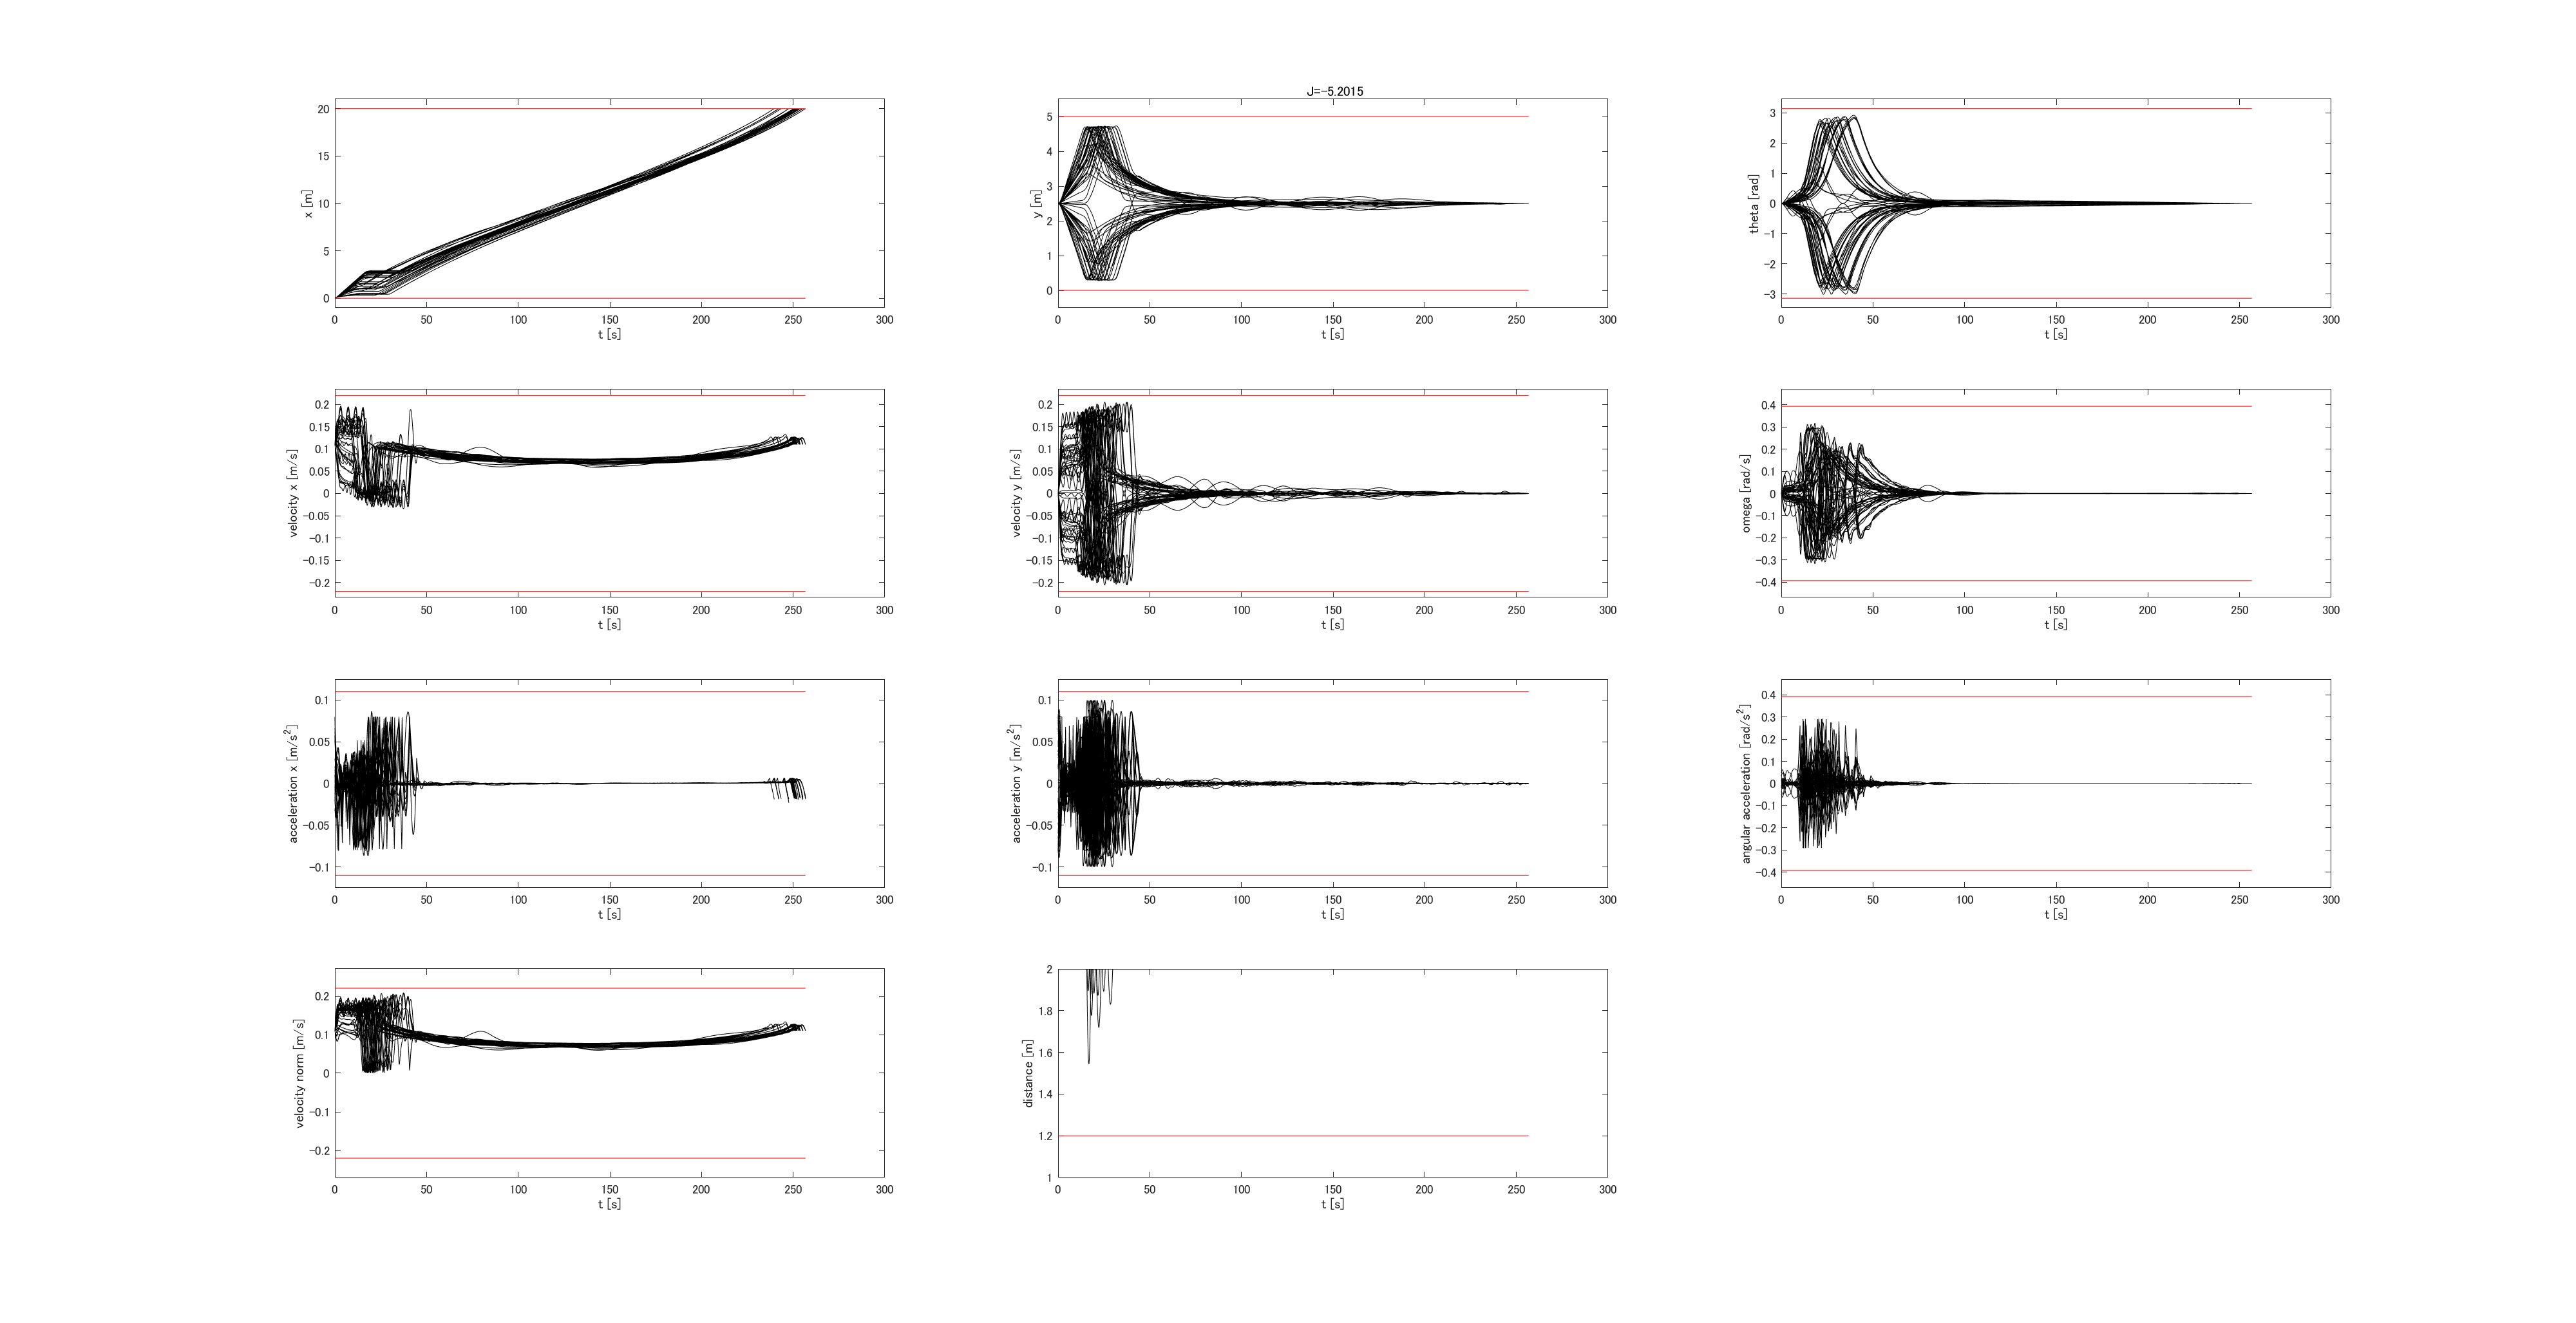
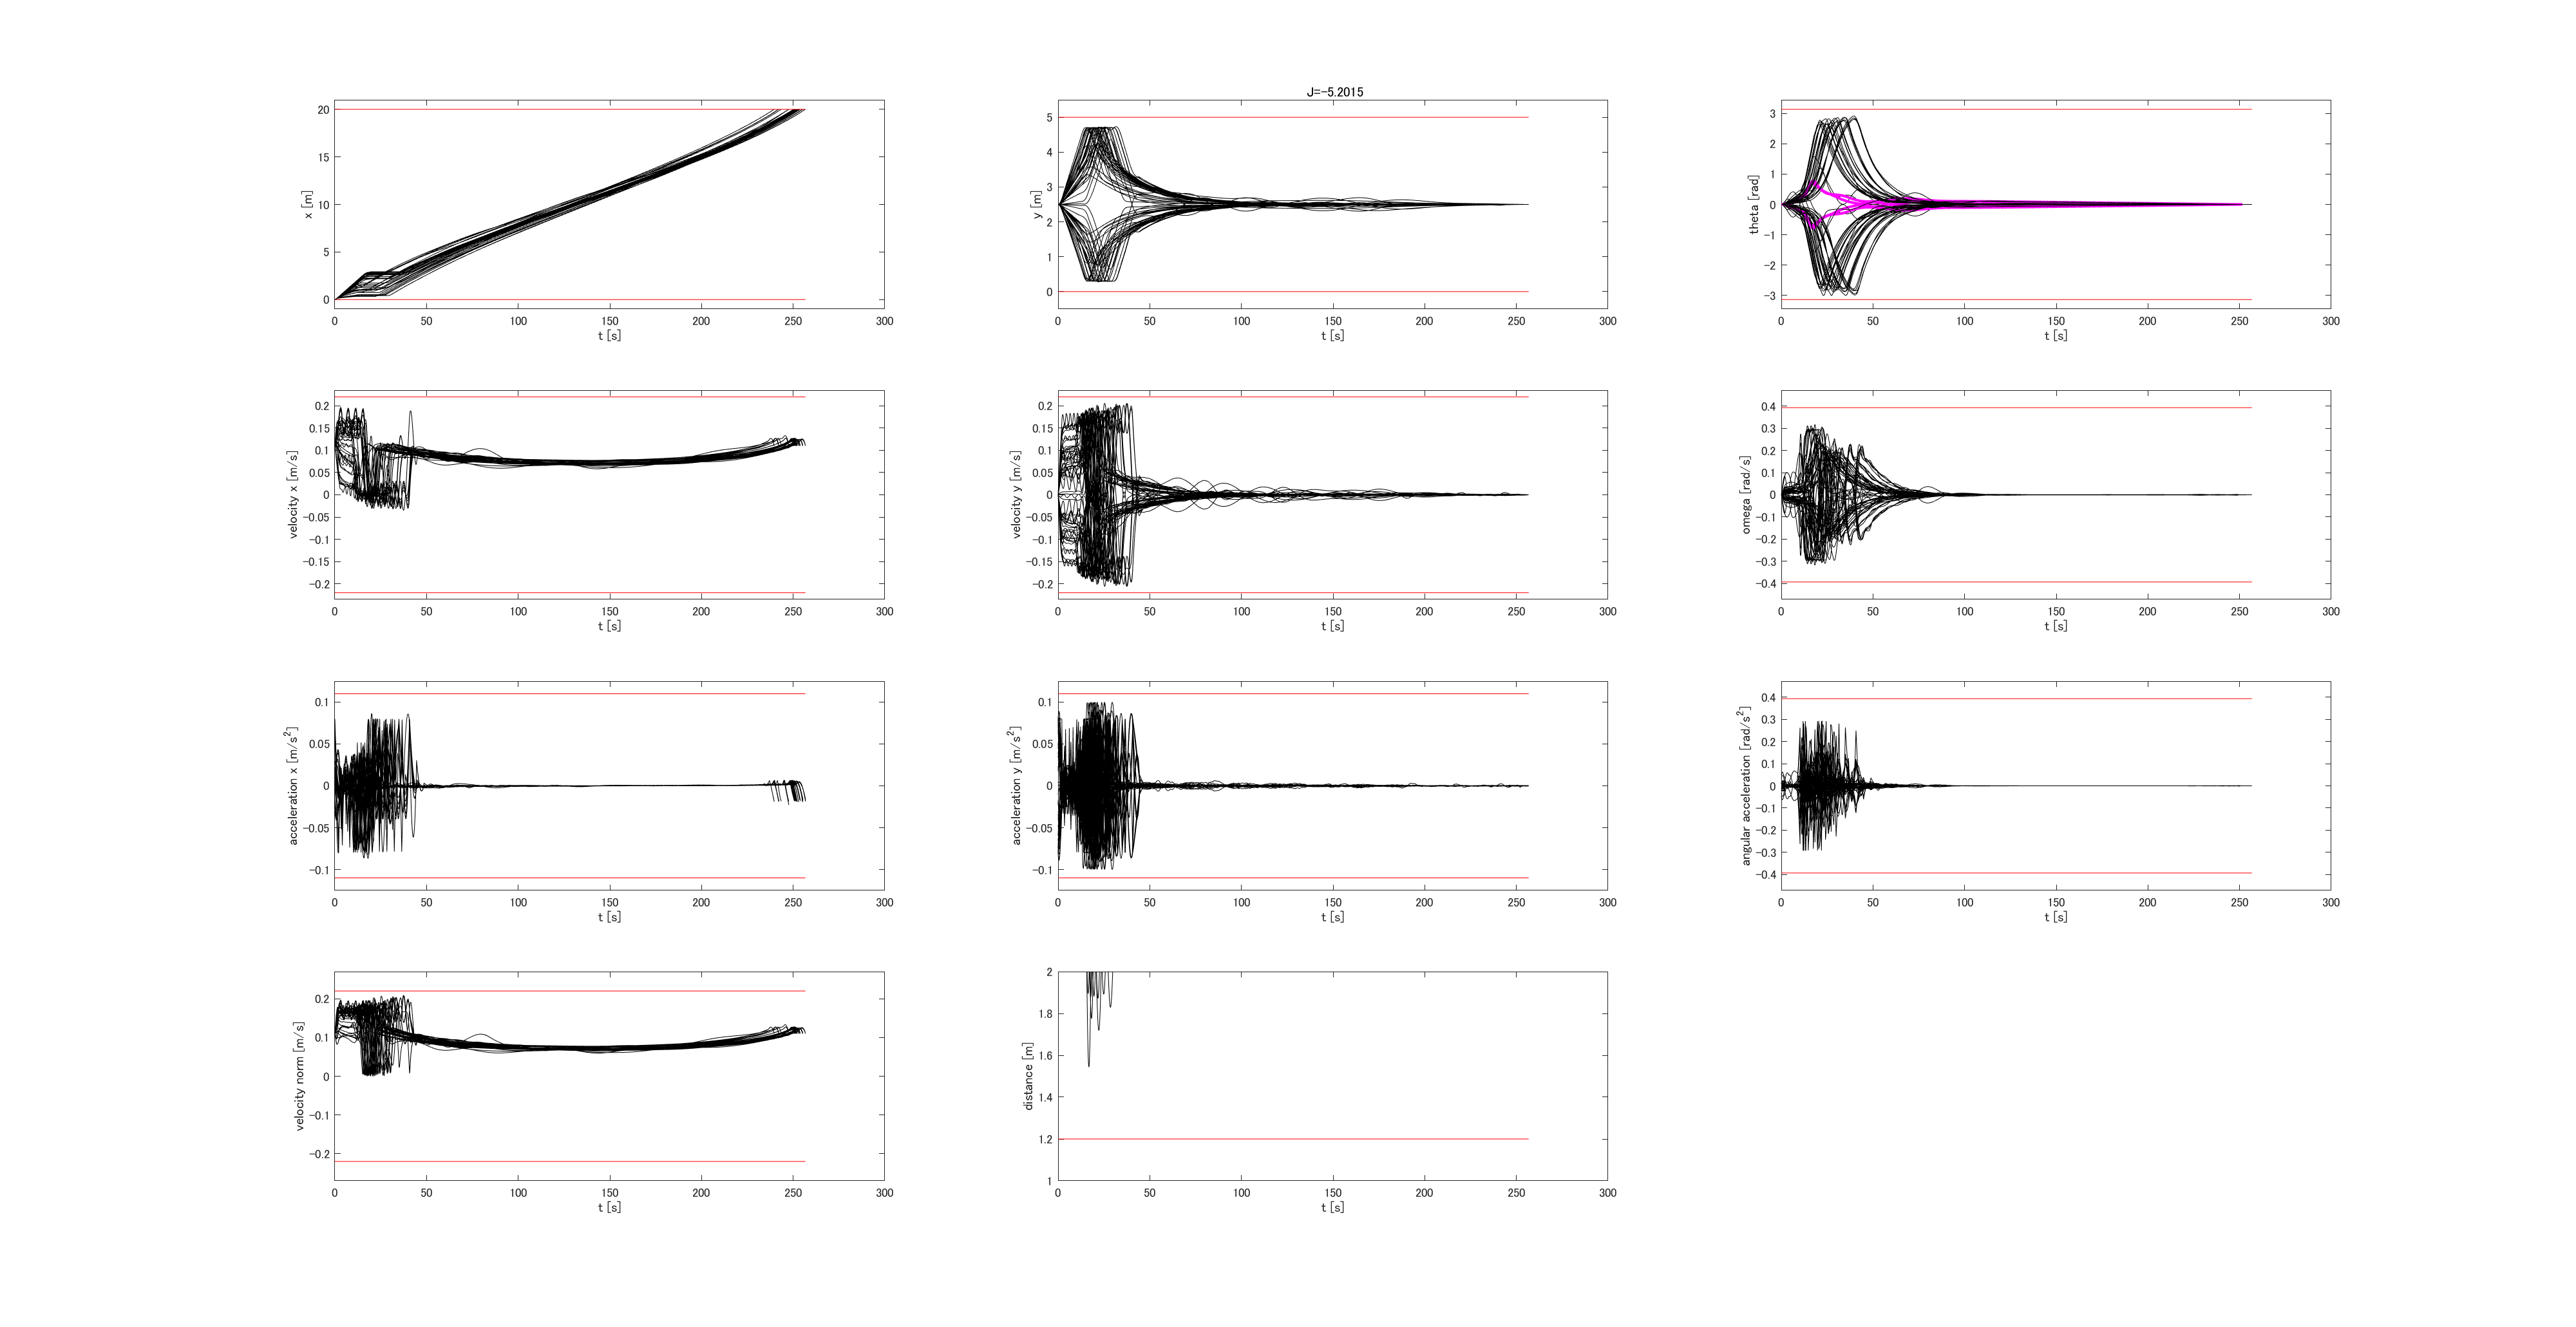
WIP

diff --git a/matlab_ws/230117/pltHistory.m b/matlab_ws/230117/pltHistory.m
@@ -33,9 +33,15 @@ xlabel('t [s]');
 ylabel('y [m]');
 
 title(graph_title);
-
+vx_check=hmn.vx==-1.0 || hmn.vx==-1.1;
+y0_check=hmn.y0==1.5 || hmn.y0==3.5;
 subplot(4,3,3);
-plot(t,th,'k');
+
+if vx_check && y0_check
+    plot(t,th,'m','LineWidth',2);
+else
+    plot(t,th,'k');
+end
 hold on
 plot(t,rbt.thmin*ones(size(t)),'r');
 hold on

diff --git a/matlab_ws/230117/visualizer.m b/matlab_ws/230117/visualizer.m
@@ -1,14 +1,14 @@
 addpath 'C:\Users\hayashide\Desktop\kazu_ws\sotsuron_simulator\matlab_ws\tutorial\cartPole';
 % addpath '/home/hayashide/kazu_ws/sotsuron_simulator/matlab_ws/tutorial/cartPole'
 
-matpath="C:\Users\hayashide\Desktop\kazu_ws\sotsuron_simulator\matlab_ws\230117\final_results\230117_105026_d_hmny0_3_vx0.9\230117_105026_.mat";
+matpath="C:\Users\hayashide\Desktop\kazu_ws\sotsuron_simulator\matlab_ws\230117\results\230117_7F\230117_220927_vx060_y050\230117_220927_.mat";
 % matpath="/home/hayashide/kazu_ws/sotsuron_simulator/matlab_ws/1210/results/1210_parastd4Hz/221210_140704_xmax10_ymin-2/221210_140704_test.mat"
 load(matpath)
 
 
-date="230119";
+date="230120";
 abst="visualizer";
-detail="230117_105026_";
+detail="230117_220927_";
 mkdir('results');
 savedir="results\"+date+"_"+abst;
 % savedir="results/"+date+"_"+abst;